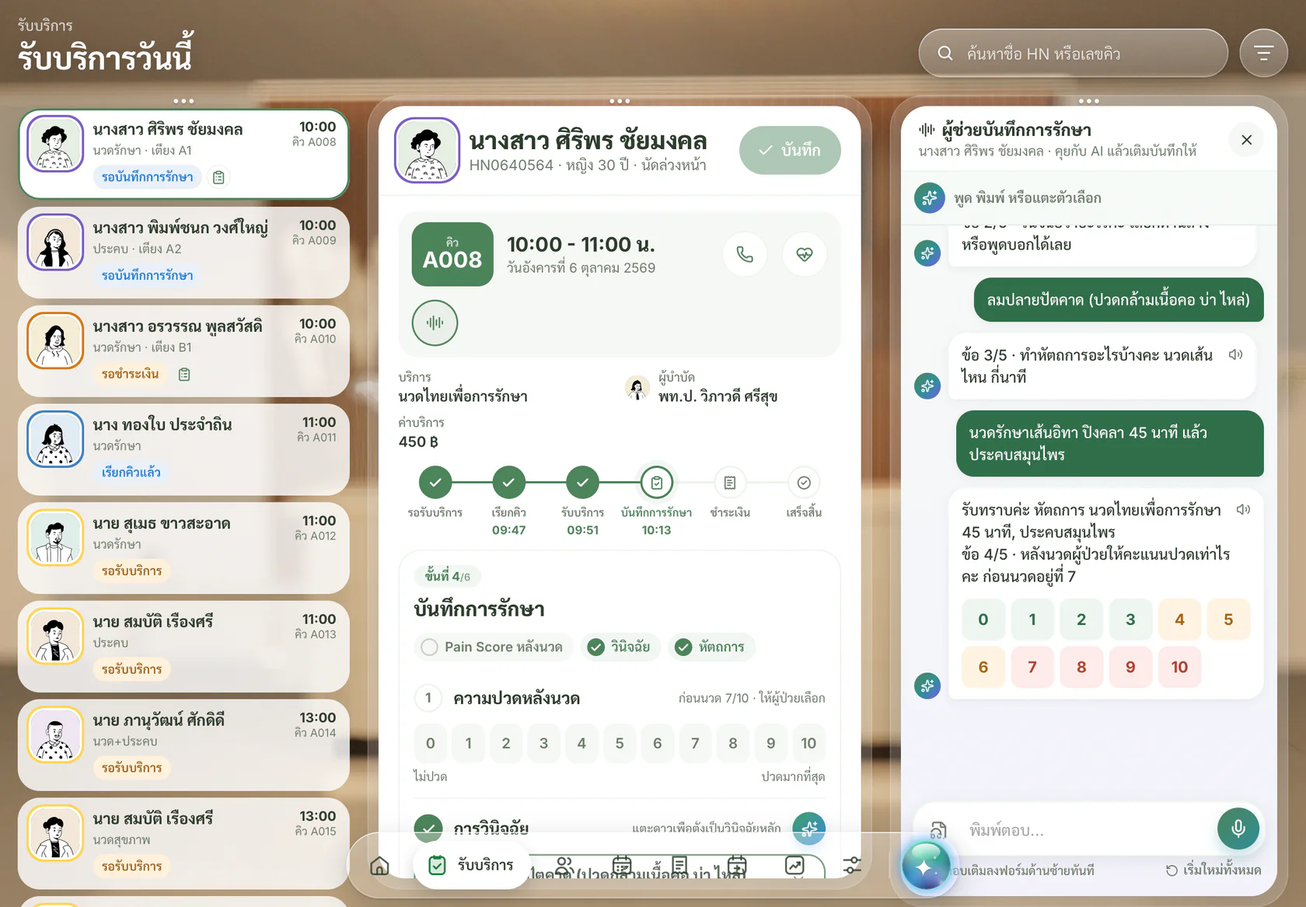
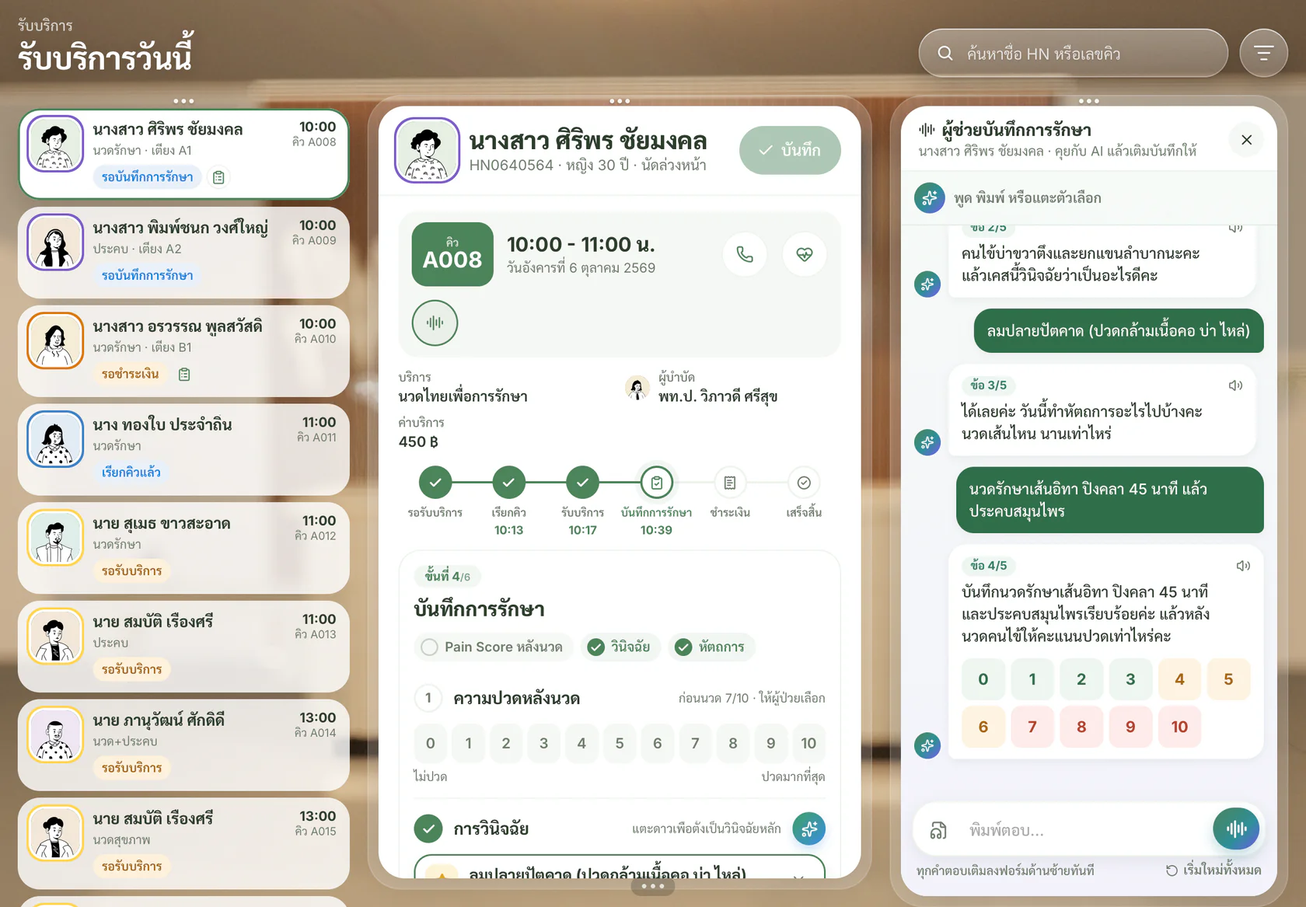
Treatment assistant: natural conversation, transcript correction, voice-mode button
- Each turn one AI call fixes the transcript (Thai-medicine terms, spoken numbers) and shows the
  corrected text, takes only the answer to the question asked, and writes a natural reply that
  acknowledges briefly and asks the next question in its own words (or re-asks politely)
- Natural question wording and opener; the question number is a small tag, not spoken
- Voice-mode button uses a waveform icon; in voice mode the close button sits on the right
- Guide, tutorial and iPad app updated

diff --git a/src/features/VoiceNote.tsx b/src/features/VoiceNote.tsx
@@ -1,6 +1,6 @@
 import { useEffect, useMemo, useRef, useState } from "react";
 import { AnimatePresence, motion } from "framer-motion";
-import { Check, FileAudio, Mic, Pencil, RefreshCw, RotateCcw, Send, Sparkles, Volume2, X } from "lucide-react";
+import { AudioLines, Check, FileAudio, Pencil, RefreshCw, RotateCcw, Send, Sparkles, Volume2, X } from "lucide-react";
 import { clsx } from "clsx";
 import { useStore } from "../store/store";
 import { useToast } from "../design-system";
@@ -15,7 +15,7 @@ import "./voice-note.css";
 
 type Extract = { findings?: string; diagnoses: string[]; procedures: { name: string; area?: string; minutes?: number | null }[]; painAfter: number | null; advice: string };
 type Slot = "finding" | "dx" | "proc" | "pain" | "advice" | "summary";
-type Msg = { id: number; role: "ai" | "me"; text: string; kind?: Slot | "intro" };
+type Msg = { id: number; role: "ai" | "me"; text: string; kind?: Slot | "intro"; /** question number shown as a small tag */ step?: number };
 
 /** the treatment-record form listens for this to fill Pain-after and advice (they are local drafts there) */
 export const VOICE_FILL = "thaiwell:voice-fill";
@@ -54,10 +54,10 @@ const SET: { slot: Exclude<Slot, "summary">; label: string }[] = [
   { slot: "advice", label: "คำแนะนำผู้ป่วย" },
 ];
 const ASK = {
-  finding: "วันนี้ตรวจพบอะไรบ้างคะ เช่น ตำแหน่งที่ปวด ตึง กดเจ็บ หรือลักษณะอาการ",
-  dx: "วินิจฉัยว่าอะไรคะ เลือกด้านล่างหรือพูดบอกได้เลย",
-  proc: "ทำหัตถการอะไรบ้างคะ นวดเส้นไหน กี่นาที",
-  pain: "หลังนวดผู้ป่วยให้คะแนนปวดเท่าไรคะ",
+  finding: "เริ่มจากอาการก่อนนะคะ วันนี้ตรวจเจออะไรบ้างคะ ปวดหรือตึงตรงไหน",
+  dx: "แล้ววินิจฉัยว่าเป็นอะไรคะ",
+  proc: "วันนี้ทำหัตถการอะไรไปบ้างคะ นวดเส้นไหน นานเท่าไหร่",
+  pain: "หลังนวดคนไข้ให้คะแนนปวดเท่าไหร่คะ",
 };
 const no = (slot: Slot) => SET.findIndex((x) => x.slot === slot) + 1;
 
@@ -111,7 +111,8 @@ export function VoiceNote({ appt }: { appt: Appointment; bare?: boolean }) {
   turn.current = { last, pending };
 
   const say = (role: Msg["role"], text: string, kind?: Msg["kind"]) => {
-    const m: Msg = { id: ++seq.current, role, text, kind };
+    const step = role === "ai" && kind && kind !== "intro" && kind !== "summary" ? no(kind) : undefined;
+    const m: Msg = { id: ++seq.current, role, text, kind, step };
     setMsgs((x) => [...x, m]);
     return m;
   };
@@ -197,6 +198,7 @@ export function VoiceNote({ appt }: { appt: Appointment; bare?: boolean }) {
 
   /** ask for whatever is still missing (with its component) */
   const askNext = (prefix = "") => ask(missing(), prefix);
+  const question = (slot: Slot) => (slot === "pain" ? `${ASK.pain} ก่อนนวดอยู่ที่ ${appt.painBefore}` : slot in ASK ? ASK[slot as keyof typeof ASK] : "");
   /** ask one question of the set (also used when a step in the question strip is tapped) */
   const ask = async (slot: Slot, prefix = "") => {
     if (slot === "advice") {
@@ -208,19 +210,19 @@ export function VoiceNote({ appt }: { appt: Appointment; bare?: boolean }) {
         setThinking(false);
         saveAdvice(a);
       }
-      const t = `${prefix}ข้อ ${no("advice")}/${SET.length} · ${had ? "คำแนะนำถึงผู้ป่วยตอนนี้ค่ะ" : "ร่างคำแนะนำถึงผู้ป่วยให้แล้วค่ะ"} แก้ได้เลย หรือบอกให้ปรับตรงไหน`;
+      const t = `${prefix}${had ? "นี่คือคำแนะนำถึงคนไข้ตอนนี้ค่ะ" : "ร่างคำแนะนำถึงคนไข้ไว้ให้แล้วนะคะ"} อยากปรับตรงไหนบอกได้เลยค่ะ`;
       say("ai", t, "advice");
       void voice(t);
       return;
     }
     if (slot === "summary") {
-      const t = `${prefix}บันทึกครบแล้วค่ะ ตรวจสรุปด้านล่าง แก้ได้ทุกช่อง แล้วกด “บันทึก” ในฟอร์มได้เลย`;
+      const t = `${prefix}ครบทุกเรื่องแล้วค่ะ ลองดูสรุปด้านล่าง แก้ได้ทุกช่อง เรียบร้อยแล้วกดบันทึกในฟอร์มได้เลยนะคะ`;
       say("ai", t, "summary");
       void voice(t);
       return;
     }
     setPick([]);
-    const q = `ข้อ ${no(slot)}/${SET.length} · ${slot === "pain" ? `${ASK.pain} ก่อนนวดอยู่ที่ ${appt.painBefore}` : ASK[slot]}`;
+    const q = question(slot);
     say("ai", prefix + q, slot);
     void voice(prefix + q);
   };
@@ -247,52 +249,70 @@ export function VoiceNote({ appt }: { appt: Appointment; bare?: boolean }) {
     ].filter(Boolean);
   };
 
-  /** one user turn (spoken or typed) */
-  const onUser = async (text: string) => {
+  /** one user turn (spoken or typed): fix the transcript, take the answer to the question asked, reply naturally */
+  const onUser = async (text: string, spoken = false) => {
     const t = text.trim();
     if (!t) return;
-    say("me", t);
+    const me = say("me", t);
     setThinking(true);
-    const { last: prev, pending: asked } = turn.current;
+    const { pending: asked } = turn.current;
     if (asked === "advice" || asked === "summary") {
       // a request to change the advice
       const a = await draftAdvice(t);
       saveAdvice(a);
       setThinking(false);
-      const r = "ปรับคำแนะนำให้แล้วค่ะ";
+      const r = "ปรับให้แล้วค่ะ ลองดูอีกทีนะคะ";
       say("ai", r, "advice");
       void voice(r);
       return;
     }
-    let x: Extract;
+    const slot: Slot = asked && asked !== "intro" ? asked : missing();
+    const nextSlot = (SET[SET.findIndex((x) => x.slot === slot) + 1]?.slot ?? "summary") as Slot;
+    const nextQ = nextSlot === "advice" || nextSlot === "summary" ? null : question(nextSlot);
+    type Turn = Extract & { heard?: string; got?: boolean; reply?: string };
+    let x: Turn;
     let local = false;
     try {
-      x = await chatJSON<Extract>(
-        `คุณช่วยผู้บำบัดแพทย์แผนไทยแปลงคำพูดเป็นบันทึกเวชระเบียน ตอบ JSON เท่านั้น:
-{"findings":"อาการ/สิ่งที่ตรวจพบวันนี้ (ตำแหน่ง ลักษณะ) หรือ \\"\\"","diagnoses":["การวินิจฉัยแผนไทย"],"procedures":[{"name":"หัตถการ","area":"ตำแหน่ง/เส้นประธาน","minutes":นาทีหรือnull}],"painAfter":ตัวเลข0-10หรือnull,"advice":"คำแนะนำถึงผู้ป่วย หรือ \\"\\""}
-ใช้ชื่อจากรายการแนะนำถ้าตรงความหมาย: วินิจฉัย ${JSON.stringify(DX_PICK)} · หัตถการ ${JSON.stringify(PROC_PICK)}
-คำพูดมาจากระบบถอดเสียง อาจสะกดผิด (เช่น "เอตา" = "อิทา") · ตัวเลขที่พูดเป็นคำให้แปลงเป็นเลข · ถ้าเป็นคำตอบสั้น ๆ ให้ตีความตามคำถามล่าสุด (ถ้าคำถามล่าสุดถามสิ่งที่ตรวจพบ ให้ใส่ใน findings)
-อย่าเดาสิ่งที่ไม่ได้พูด ห้ามอนุมานวินิจฉัยหรือหัตถการจากอาการ ต้องพูดชื่อออกมาจึงใส่ ไม่ได้พูดถึงให้เป็น [] หรือ null`,
-        JSON.stringify({ คำถามล่าสุด: prev?.role === "ai" ? prev.text : null, คำพูด: t, บริการวันนี้: s.name, painก่อนนวด: appt.painBefore }),
+      x = await chatJSON<Turn>(
+        `คุณคือ "ผู้ช่วยบันทึกการรักษา" ในคลินิกแพทย์แผนไทย ผู้หญิง พูดภาษาไทยเป็นธรรมชาติ อบอุ่น กระชับ เหมือนเพื่อนร่วมงานคุยกัน ลงท้าย ค่ะ/นะคะ
+งานของคุณในแต่ละตา:
+1) heard: แก้ข้อความที่ได้จากระบบถอดเสียงให้ถูกต้องตามศัพท์แพทย์แผนไทย (เช่น "เอตา"→"อิทา", "ปัตตคาด"→"ปัตคาด", ตัวเลขที่พูดเป็นคำให้เป็นเลข) โดยไม่เปลี่ยนความหมาย ถ้าเป็นข้อความที่พิมพ์มาให้คงเดิม
+2) ดึงข้อมูล "เฉพาะเรื่องที่ถาม" (เรื่องที่ถาม: ${SET.find((x) => x.slot === slot)?.label}) ห้ามอนุมานเรื่องอื่น ห้ามเดาสิ่งที่ไม่ได้พูด
+3) reply: ถ้าได้คำตอบ (got=true) ทวนสั้น ๆ แบบธรรมชาติ 1 ประโยค (ไม่ต้องทวนทุกคำ) แล้วถาม "คำถามถัดไป" ด้วยสำนวนพูดของคุณเอง ถ้าคำถามถัดไปเป็น null ให้ตอบรับสั้น ๆ อย่างเดียว · ถ้ายังไม่ได้คำตอบ (got=false) ขอให้ตอบเรื่องที่ถามอีกครั้งอย่างสุภาพ · ไม่เกิน 2 ประโยคสั้น ไม่ใช้ bullet ไม่ใช้อีโมจิ ไม่ใส่รหัสโรค
+ตอบ JSON เท่านั้น: {"heard":"...","got":true,"findings":"","diagnoses":[],"procedures":[{"name":"","area":"","minutes":null}],"painAfter":null,"reply":"..."}
+ชื่อที่ใช้ได้ถ้าตรงความหมาย: วินิจฉัย ${JSON.stringify(DX_PICK)} · หัตถการ ${JSON.stringify(PROC_PICK)}`,
+        JSON.stringify({ เรื่องที่ถาม: question(slot), ข้อความ: t, มาจากเสียงพูด: spoken, คำถามถัดไป: nextQ, บริการวันนี้: s.name, ปวดก่อนนวด: appt.painBefore }),
       );
     } catch {
       x = parseLocal(t, s.name);
       local = true;
     }
-    // one question at a time: keep only the answer to the question that was asked, then move to the next one
-    const slot: Slot = asked && asked !== "intro" ? asked : missing();
+    const heard = spoken && x.heard?.trim() ? x.heard.trim() : t;
+    if (heard !== t) setMsgs((ms) => ms.map((m) => (m.id === me.id ? { ...m, text: heard } : m)));
+    // one question at a time: keep only the answer to the question that was asked
     const only: Extract = { diagnoses: [], procedures: [], painAfter: null, advice: "" };
-    if (slot === "finding") only.findings = x.findings?.trim() || t;
+    if (slot === "finding") only.findings = x.findings?.trim() || heard;
     if (slot === "dx") only.diagnoses = x.diagnoses ?? [];
-    if (slot === "proc") only.procedures = x.procedures ?? [];
+    if (slot === "proc") only.procedures = (x.procedures ?? []).filter((q) => q?.name);
     if (slot === "pain") only.painAfter = x.painAfter;
     const got = apply(only);
     setThinking(false);
+    const reply = !local ? x.reply?.trim() : "";
     if (!got.length) {
-      await ask(slot, "ขอโทษค่ะ ยังไม่ได้คำตอบข้อนี้\n");
+      setPick([]);
+      const r = reply && x.got === false ? reply : `ขอโทษค่ะ ยังไม่ได้ยินเรื่องนี้ชัด ${question(slot)}`;
+      say("ai", r, slot);
+      void voice(r);
       return;
     }
-    await askNext(`รับทราบค่ะ ${got.join(" · ")}${local ? " (ออฟไลน์)" : ""}\n`);
+    if (!nextQ || missing() !== nextSlot) {
+      await askNext(reply ? `${reply} ` : "รับทราบค่ะ ");
+      return;
+    }
+    setPick([]);
+    const r = reply || `รับทราบค่ะ ${got.join(" · ")} ${nextQ}`;
+    say("ai", r, nextSlot);
+    void voice(r);
   };
 
   // ── microphone with live transcript ──
@@ -380,7 +400,7 @@ export function VoiceNote({ appt }: { appt: Appointment; bare?: boolean }) {
       const heard = await transcribe(wav);
       setSending(false);
       setLive("");
-      if (heard) await onUser(heard);
+      if (heard) await onUser(heard, true);
       else if (vm.current) void listen();
     } catch {
       setSending(false);
@@ -396,7 +416,7 @@ export function VoiceNote({ appt }: { appt: Appointment; bare?: boolean }) {
     setLevel(0);
   };
 
-  const intro = () => `เริ่มบันทึกการรักษาของคุณ${p.name.replace(/^(นางสาว|นาง|นาย)\s*/, "")}ค่ะ มี ${SET.length} คำถาม ตอบทีละข้อ ตอบแล้วจะถามข้อต่อไปให้เลย แตะไมค์เพื่อคุยด้วยเสียงได้`;
+  const intro = () => `สวัสดีค่ะ มาบันทึกการรักษาของคุณ${p.name.replace(/^(นางสาว|นาง|นาย)\s*/, "")}กันนะคะ วันนี้มี ${SET.length} เรื่อง เดี๋ยวถามไปทีละข้อค่ะ จะพิมพ์หรือแตะปุ่มคลื่นเสียงเพื่อคุยกันก็ได้นะคะ`;
   /** intro with the question set, then the first unanswered question */
   const begin = () => {
     seq.current = 0;
@@ -532,7 +552,7 @@ export function VoiceNote({ appt }: { appt: Appointment; bare?: boolean }) {
               const x: Extract = m.kind === "dx" ? { diagnoses: pick, procedures: [], painAfter: null, advice: "" } : { diagnoses: [], procedures: pick.map((name) => ({ name })), painAfter: null, advice: "" };
               say("me", pick.join(", "));
               apply(x);
-              void askNext();
+              void askNext("ได้เลยค่ะ ");
             }}
           >
             ยืนยัน
@@ -641,6 +661,11 @@ export function VoiceNote({ appt }: { appt: Appointment; bare?: boolean }) {
               </span>
             )}
             <div className="rc-bub">
+              {m.step && (
+                <span className="rc-tag">
+                  ข้อ {m.step}/{SET.length}
+                </span>
+              )}
               <p>{m.text}</p>
               {m.role === "ai" && !voiceMode && (
                 <button
@@ -693,9 +718,7 @@ export function VoiceNote({ appt }: { appt: Appointment; bare?: boolean }) {
       <AnimatePresence initial={false} mode="wait">
         {voiceMode ? (
           <motion.div key="live" className="rc-bar is-rec" initial={{ opacity: 0 }} animate={{ opacity: 1 }} exit={{ opacity: 0 }}>
-            <button type="button" className="rc-x" onClick={toggleVoice} aria-label="จบการคุยด้วยเสียง" title="จบการคุยด้วยเสียง">
-              <X size={17} />
-            </button>
+
             <span
               className="rc-live"
               role="button"
@@ -712,6 +735,9 @@ export function VoiceNote({ appt }: { appt: Appointment; bare?: boolean }) {
               <VoiceWave level={level} speak={speaking} calm={!rec && !speaking} height={44} />
               <small>{rec ? "กำลังฟัง · หยุดพูดแล้วส่งให้เอง" : sending ? "กำลังส่ง…" : speaking ? "AI กำลังตอบ · แตะเพื่อพูดแทรก" : thinking ? "AI กำลังคิด…" : "กำลังเปิดไมค์…"}</small>
             </span>
+            <button type="button" className="rc-x" onClick={toggleVoice} aria-label="จบการคุยด้วยเสียง" title="จบการคุยด้วยเสียง">
+              <X size={17} />
+            </button>
 
           </motion.div>
         ) : (
@@ -745,7 +771,7 @@ export function VoiceNote({ appt }: { appt: Appointment; bare?: boolean }) {
                 title="คุยกับ AI ด้วยเสียง"
                 disabled={!canRecord || thinking}
               >
-                <Mic size={18} />
+                <AudioLines size={19} strokeWidth={2.3} />
               </button>
             )}
           </motion.div>
@@ -772,7 +798,7 @@ export function VoiceNote({ appt }: { appt: Appointment; bare?: boolean }) {
             const { wav } = await fileToWav(f);
             const heard = await transcribe(wav);
             setThinking(false);
-            if (heard) await onUser(heard);
+            if (heard) await onUser(heard, true);
           } catch {
             setThinking(false);
             say("ai", "เปิดไฟล์เสียงนี้ไม่ได้ค่ะ ลองไฟล์ .m4a .mp3 หรือ .wav");

diff --git a/src/features/UserGuide.tsx b/src/features/UserGuide.tsx
@@ -33,7 +33,7 @@ const CHAPTERS: { id: string; title: string; color: string; Icon: Icon; intro: s
     topics: [
       { q: "ขั้นตอนการรับบริการ", steps: ["เลือกผู้ป่วยจากรายการฝั่งซ้าย", "กด “เรียกคิว” ระบบจะประกาศเสียงเรียก", "กด “คัดกรองก่อนนวด” เปิดหน้าคัดกรอง (หุ่น 3D · ระดับปวด · ความดัน ชีพจร · คำถามก่อนนวด) แล้วบันทึก", "เลือกเตียงแล้ว “เริ่มรับบริการ” ระบบจับเวลาให้", "กด “จบการรักษา” → บันทึกการรักษา (วินิจฉัย หัตถการ Pain หลังนวด)", "เลือกวิธีชำระ เงินสด / พร้อมเพย์ / เครดิตคอร์ส → ออกใบเสร็จ"], tip: "ถ้าแถบคัดกรองเป็นสีแดง แปลว่าพบข้อห้าม · กดเริ่มแล้วระบบจะให้ใส่ชื่อแพทย์แผนไทยผู้ประเมินก่อน และบันทึกไว้ในประวัติของนัด" },
       { q: "ดูข้อมูลสุขภาพระหว่างรับบริการ", steps: ["กดไอคอนหัวใจข้างปุ่มโทร", "กล่องข้อมูลสุขภาพเปิดทางขวา มีหุ่น 3D จุดที่ปวด และประวัติ Pain Score"] },
-      { q: "ผู้ช่วยบันทึกการรักษา (แชทกับ AI)", steps: ["ถึงขั้นบันทึกการรักษา แผง “ผู้ช่วยบันทึกการรักษา” เปิดทางขวาเอง (หรือกดไอคอนคลื่นเสียงข้างปุ่มหัวใจ)", "AI เปิดด้วยชุดคำถาม 5 ข้อตามลำดับ: อาการที่ตรวจพบ → วินิจฉัย → หัตถการ → Pain หลังนวด → คำแนะนำผู้ป่วย แล้วถามข้อ 1", "ตอบทีละข้อ ด้วยการพิมพ์ แตะตัวเลือก (ชิปวินิจฉัย หัตถการ แถบคะแนนปวด) หรือแตะตัวอย่างคำตอบ ตอบแล้ว AI ถามข้อต่อไปทันที", "แตะไมค์เพื่อคุยด้วยเสียง: ช่องพิมพ์กลายเป็นคลื่นเสียง พูดตอบได้เลย ข้อความขึ้นสดในแชท หยุดพูดแล้วระบบส่งให้เอง AI ตอบกลับทั้งเสียงและข้อความ แล้วฟังต่อ แตะ ✕ เพื่อจบ", "ข้อ 5 AI ร่างคำแนะนำถึงผู้ป่วย แก้เองหรือสั่งให้ปรับได้ แล้วได้การ์ดสรุปที่แก้ได้ทุกช่อง · กด “บันทึก” ในฟอร์ม"], tip: "ระหว่างเปิดผู้ช่วย แถบเมนูด้านล่างจะย่อเหลือจุด ••• แตะเพื่อเลือก ขยาย / ย่อ / แถบด้านข้าง · “เริ่มใหม่ทั้งหมด” ล้างคำตอบและเริ่มข้อ 1 (กด “เลิกทำ” ได้)" },
+      { q: "ผู้ช่วยบันทึกการรักษา (แชทกับ AI)", steps: ["ถึงขั้นบันทึกการรักษา แผง “ผู้ช่วยบันทึกการรักษา” เปิดทางขวาเอง (หรือกดไอคอนคลื่นเสียงข้างปุ่มหัวใจ)", "AI เปิดด้วยชุดคำถาม 5 ข้อตามลำดับ: อาการที่ตรวจพบ → วินิจฉัย → หัตถการ → Pain หลังนวด → คำแนะนำผู้ป่วย แล้วถามข้อ 1", "ตอบทีละข้อ ด้วยการพิมพ์ แตะตัวเลือก (ชิปวินิจฉัย หัตถการ แถบคะแนนปวด) หรือแตะตัวอย่างคำตอบ ตอบแล้ว AI ถามข้อต่อไปทันที", "แตะปุ่มคลื่นเสียง (ขวาของช่องพิมพ์) เพื่อคุยด้วยเสียง: ช่องพิมพ์กลายเป็นคลื่นเสียง พูดตอบได้เลย ข้อความขึ้นสดในแชท หยุดพูดแล้วระบบส่งให้เอง AI แก้คำที่ถอดผิด (เช่น ชื่อเส้นประธาน) ตอบรับแบบธรรมชาติทั้งเสียงและข้อความ แล้วถามข้อต่อไป แตะ ✕ ด้านขวาเพื่อจบ", "ข้อ 5 AI ร่างคำแนะนำถึงผู้ป่วย แก้เองหรือสั่งให้ปรับได้ แล้วได้การ์ดสรุปที่แก้ได้ทุกช่อง · กด “บันทึก” ในฟอร์ม"], tip: "ระหว่างเปิดผู้ช่วย แถบเมนูด้านล่างจะย่อเหลือจุด ••• แตะเพื่อเลือก ขยาย / ย่อ / แถบด้านข้าง · “เริ่มใหม่ทั้งหมด” ล้างคำตอบและเริ่มข้อ 1 (กด “เลิกทำ” ได้)" },
       { q: "ผู้ป่วยไม่มา", steps: ["กด “ไม่มา” ในขั้นรอเรียกคิว (เฉพาะนัดวันนี้)", "ถ้าผู้ป่วยมาถึงทีหลัง กด “ย้อนกลับ” ได้"] },
       { q: "ยกเลิกนัด", steps: ["เลือกนัดที่ยังไม่เริ่มรับบริการ แล้วกด “ยกเลิกนัด”", "เลือกผู้ยกเลิก (ผู้ป่วย / คลินิก) และเหตุผล ใส่หมายเหตุได้", "ถ้านัดอยู่ในแผนการรักษา เลือก “เฉพาะนัดนี้” หรือ “ยกเลิกนัดที่เหลือทั้งหมด”", "กดยืนยัน · เตียงว่างทันที เครดิตคอร์สคืนอัตโนมัติ ถ้าชำระเงินแล้วระบบยกเลิกใบเสร็จและบันทึกคืนเงิน"], tip: "ยกเลิกผิด กด “เลิกทำ” ที่แจ้งเตือน หรือเปิดนัดนั้นแล้วกด “ย้อนกลับ”" },
     ],

diff --git a/src/features/voice-note.css b/src/features/voice-note.css
@@ -732,5 +732,19 @@
   animation: rc-blink 1s steps(2) infinite;
 }
 .rc-bar.is-rec .rc-live {
-  margin-right: 44px; /* balance the ✕ so the wave sits centred */
+  margin-left: 44px; /* balance the ✕ on the right so the wave sits centred */
+}
+.rc-tag {
+  display: inline-block;
+  margin-bottom: 4px;
+  padding: 2px 8px;
+  border-radius: 99px;
+  background: #eef6f2;
+  font: 700 10.5px/1.4 var(--font-sans);
+  color: #2f7f6a;
+}
+.rc-send.is-mic {
+  width: 42px;
+  border-radius: 21px;
+  background: linear-gradient(135deg, #4c845a, #2f8f9a 60%, #6a5ae0);
 }
